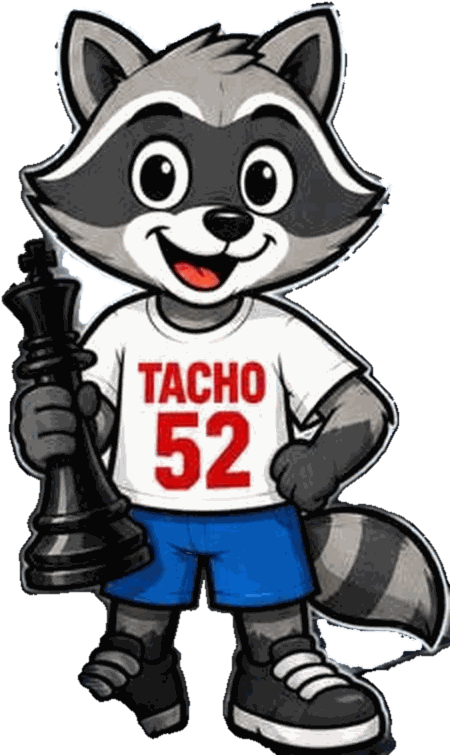
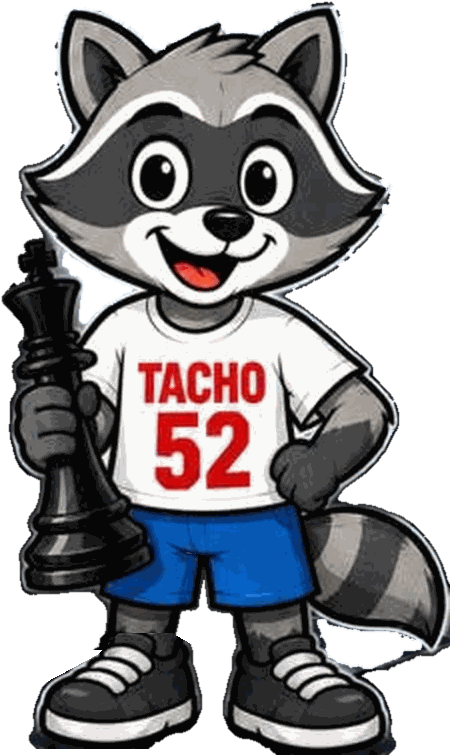
Mis mesas: sin «XXI Campeonato» en los torneos de Pareo y con Tacho en Tacho Chess
La píldora del Centroamericano nace escondida y solo sale con su enlace de
chess-results. Un torneo de Pareo de Tacho Chess muestra a Tacho en lugar del
pizote (medido por el alto), y a Tacho se le arregló el zapato izquierdo.
Verificador nuevo: verificar-centroamericano-arbitro-marca.js.

Changed region(s): [[0.0622, 0.8225, 0.4667, 1.0]]

diff --git a/herramientas/verificar-centroamericano-arbitro-marca.js b/herramientas/verificar-centroamericano-arbitro-marca.js
@@ -1,0 +1,91 @@
+/* La portada de «Mis mesas» (centroamericano-arbitro.html) según de quién es el torneo:
+   - con el enlace del Centroamericano (chess-results): la píldora «XXI Campeonato» y el pizote;
+   - con un torneo de Pareo Integral de Tacho Chess: SIN la píldora y con Tacho, su mascota
+     (img/tacho-chess-2/mascota.png), medida por el alto para no estirar la franja;
+   - con otro torneo de Pareo Integral: sin la píldora, y el pizote de siempre;
+   - en los tres, «Todas las mesas» sigue siendo el botón de la mascota.
+   Se mide lo que se ve (checkVisibility y la imagen cargada), no la clase. Deja capturas en
+   la carpeta temporal del sistema.
+
+   Ver «La portada de "Mis mesas" según el torneo» en docs/decisiones/juegos-y-torneos.md.
+
+       node herramientas/verificar-todo.js centroamericano-arbitro-marca      */
+"use strict";
+const os = require("os");
+const path = require("path");
+const { chromium } = require("./lib/playwright-con-sesion");
+const { TOKEN, dobleArbitro } = require("./lib/doble-centroamericano-arbitro");
+
+const BASE = process.env.BASE_URL || "http://localhost:8777";
+let fallos = 0;
+function igual(nombre, hallado, esperado) {
+    const ok = JSON.stringify(hallado) === JSON.stringify(esperado);
+    if (!ok) fallos++;
+    console.log((ok ? "  ✓ " : "  ✗ ") + nombre + (ok ? "" : "\n      esperado: " + JSON.stringify(esperado) + "\n      hallado:  " + JSON.stringify(hallado)));
+}
+
+const ORIGINAL = 'torneo: "Sub-10 Femenino", categoria: "Sub-10", rama: "Femenino"';
+// El doble de siempre; con `pareo`, el torneo viene de Pareo Integral con ese nombre (como lo manda la base: categoría «Abierto», rama «Mixto»).
+const doble = (pareo) => {
+    const d = dobleArbitro();
+    if (!d.includes(ORIGINAL)) throw new Error("El doble del árbitro cambió: no se encontró el torneo.");
+    return pareo ? d.replace(ORIGINAL, 'fuente: "pareo", torneo: ' + JSON.stringify(pareo) + ', categoria: "Abierto", rama: "Mixto"') : d;
+};
+
+async function abrir(browser, d, ancho) {
+    const ctx = await browser.newContext({ serviceWorkers: "block", viewport: { width: ancho, height: 800 } });
+    await ctx.route("**/js/supabase-client.js", (r) => r.fulfill({ contentType: "application/javascript", body: d }));
+    await ctx.route("**/js/vendor/supabase.js", (r) => r.fulfill({ contentType: "application/javascript", body: "" }));
+    await ctx.route(/supabase\.co|sentry|googletagmanager|cloudflareinsights/, (r) => r.abort());
+    const p = await ctx.newPage();
+    const errores = [];
+    p.on("pageerror", (e) => errores.push(e.message));
+    await p.goto(BASE + "/centroamericano-arbitro.html#" + TOKEN, { waitUntil: "load" });
+    await p.waitForFunction(() => !document.getElementById("datos").hidden);
+    await p.waitForFunction(() => { const i = document.getElementById("mascota-evento"); return i.complete && i.naturalWidth > 0; });
+    return { ctx, p, errores };
+}
+
+const portada = (p) => p.evaluate(() => {
+    const i = document.getElementById("mascota-evento"), r = i.getBoundingClientRect();
+    return {
+        pildora: document.querySelector(".cac-pildora").checkVisibility(),
+        mascota: i.getAttribute("src"),
+        seVe: i.checkVisibility() && i.naturalWidth > 0,
+        enBoton: !!i.closest("#ver-todas-mesas"),
+        alto: Math.round(r.height),
+    };
+});
+
+(async () => {
+    const browser = await chromium.launch();
+    try {
+        const casos = [
+            ["el Centroamericano", null, true, "img/centroamericano-2026/mascota-tablero.png"],
+            ["Tacho Chess (Pareo)", "Tacho Chess 2 (1er Ciclo) (Rápido)", false, "img/tacho-chess-2/mascota.png"],
+            ["otro torneo de Pareo", "Abierto de Pérez Zeledón", false, "img/centroamericano-2026/mascota-tablero.png"],
+        ];
+        for (const [nombre, pareo, pildora, mascota] of casos) {
+            console.log("\n" + nombre + ":");
+            const { ctx, p, errores } = await abrir(browser, doble(pareo), 1280);
+            const v = await portada(p);
+            igual("la píldora «XXI Campeonato» " + (pildora ? "se ve" : "no se ve"), v.pildora, pildora);
+            igual("la mascota es " + mascota + ", se ve y es el botón de «Todas las mesas»", [v.mascota, v.seVe, v.enBoton], [mascota, true, true]);
+            if (pareo && /tacho/i.test(pareo)) igual("Tacho, de pie, no estira la franja (170 px de alto o menos)", v.alto > 0 && v.alto <= 170, true);
+            igual("sin errores de la página", errores, []);
+            await p.screenshot({ path: path.join(os.tmpdir(), "arbitro-marca-" + (pareo ? (/tacho/i.test(pareo) ? "tacho" : "pareo") : "centroamericano") + ".png"), clip: { x: 0, y: 0, width: 1280, height: 460 } });
+            await ctx.close();
+        }
+        // En el celular, Tacho también cabe en la franja.
+        const { ctx, p } = await abrir(browser, doble("Tacho Chess 2 (2do Ciclo) (Rápido)"), 390);
+        const v = await portada(p);
+        igual("a 390 px, sin píldora y con Tacho de 110 px de alto o menos, sin desplazar a lo ancho",
+            [v.pildora, v.mascota, v.alto <= 110, await p.evaluate(() => document.documentElement.scrollWidth <= innerWidth)], [false, "img/tacho-chess-2/mascota.png", true, true]);
+        await p.screenshot({ path: path.join(os.tmpdir(), "arbitro-marca-tacho-celular.png"), clip: { x: 0, y: 0, width: 390, height: 420 } });
+        await ctx.close();
+    } finally { await browser.close(); }
+    console.log(fallos ? `\n✗ ${fallos} comprobación(es) fallaron.` : "\n✓ Todo bien.");
+    process.exit(fallos ? 1 : 0);
+})().catch((e) => { console.error(e); process.exit(1); });
+
+/*! rev bfb5bbb0d2d82f9f */

diff --git a/centroamericano-arbitro.html b/centroamericano-arbitro.html
@@ -35,20 +35,22 @@
     <!-- La portada es la de las bases (morado, hojas de monstera, pildora roja),
          más baja: en el celular lo que importa son las mesas. La mascota es una de
          las dos imágenes de las bases, sin tocar. Lo que dice cada dato lo pone
-         js/centroamericano-arbitro.js al leer el enlace. -->
+         js/centroamericano-arbitro.js al leer el enlace. La píldora «XXI Campeonato»
+         es del Centroamericano: nace escondida y solo se muestra con su enlace de
+         chess-results; en un torneo de Pareo no va, y uno de Tacho Chess trae su mascota. -->
     <section class="cac-portada cam-portada" aria-labelledby="titulo-pagina">
         <img src="img/centroamericano-2026/hojas.png" alt="" aria-hidden="true" width="470" height="440" class="cac-hojas cac-hojas-ai">
         <img src="img/centroamericano-2026/hojas.png" alt="" aria-hidden="true" width="470" height="440" class="cac-hojas cac-hojas-bd">
         <div class="relative max-w-5xl mx-auto px-4 sm:px-6 lg:px-8 pt-6 pb-6 md:pt-8 md:pb-8">
             <div class="cam-cabeza-fila">
                 <div class="min-w-0">
-                    <p><span class="cac-pildora text-sm md:text-base">XXI Campeonato</span></p>
+                    <p id="pildora-evento" hidden><span class="cac-pildora text-sm md:text-base">XXI Campeonato</span></p>
                     <h1 id="titulo-pagina" class="cac-titulo text-2xl sm:text-3xl md:text-4xl mt-3">Mis mesas<span id="titulo-torneo" class="block text-lg sm:text-xl md:text-2xl mt-1"></span></h1>
                 </div>
                 <div class="cam-logo-centro" role="img" aria-label="Ajedrez Integral"><img src="img/logo-marca.png" width="155" height="96" alt=""><span aria-hidden="true">Ajedrez <span>Integral</span></span></div>
                 <!-- El pizote es un botón: abre los emparejamientos de TODAS las categorías, para decirle a un atleta dónde sentarse. -->
                 <button type="button" id="ver-todas-mesas" class="cam-mascota-boton shrink-0" aria-haspopup="dialog" aria-label="Buscar dónde juega un atleta, en todas las categorías">
-                    <img src="img/centroamericano-2026/mascota-tablero.png" width="266" height="231" alt="" aria-hidden="true" class="cam-mascota">
+                    <img id="mascota-evento" src="img/centroamericano-2026/mascota-tablero.png" width="266" height="231" alt="" aria-hidden="true" class="cam-mascota">
                     <span class="cam-mascota-pista" aria-hidden="true">Todas las mesas</span>
                 </button>
             </div>

diff --git a/js/centroamericano-arbitro.js b/js/centroamericano-arbitro.js
@@ -1672,7 +1672,24 @@
         } finally { boton.disabled = false; }
     }
 
+    // La píldora «XXI Campeonato» y el pizote son del Centroamericano (su enlace es de chess-results). En un torneo de
+    // Pareo Integral la píldora no va, y si el torneo tiene mascota propia (Tacho Chess: Tacho), esa reemplaza al pizote.
+    const PIZOTE = { src: "img/centroamericano-2026/mascota-tablero.png", w: 266, h: 231, alta: false };
+    const MASCOTAS = [{ re: /tacho\s*chess/i, src: "img/tacho-chess-2/mascota.png", w: 450, h: 755, alta: true }];
+    function pintarMarca() {
+        const pareo = esPareo();
+        $("pildora-evento").hidden = pareo;
+        const m = (pareo && MASCOTAS.find((x) => x.re.test(estado.torneo || ""))) || PIZOTE;
+        const img = $("mascota-evento");
+        if (img.getAttribute("src") === m.src) return;
+        img.src = m.src;
+        img.width = m.w;
+        img.height = m.h;
+        img.classList.toggle("cam-mascota-alta", m.alta);
+    }
+
     function pintarCabecera() {
+        pintarMarca();
         const r = rapido();
         $("titulo-torneo").textContent = (estado.categoria ? estado.categoria + " " + estado.rama : estado.torneo) + (r && estado.categoria ? (r === "blitz" ? " · Blitz" : " · Rápido") : "");
         // Modo rápido: sin control de tiempos (no se anotan en el Rápido ni en el Blitz) y la regla con sus minutos.

diff --git a/css/centroamericano-mesas.css b/css/centroamericano-mesas.css
@@ -77,6 +77,8 @@ body:has(#control-tiempos:not([hidden])) .cam-fab { right: auto; left: 1rem; }
   height: auto;
   filter: drop-shadow(0 4px 6px rgb(0 0 0 / 0.25));
 }
+/* Una mascota de pie (Tacho, de Tacho Chess: 450 × 755) se mide por el alto, para no estirar la franja. */
+.cam-mascota.cam-mascota-alta { width: auto; height: clamp(110px, 20vw, 170px); }
 
 /* (El nombre va a 1.25rem en negrita, texto grande: el dorado da 4,1:1 contra el morado más claro de la franja, y pide 3:1.)
  * La fila de la franja: el título a la izquierda, el logo de Ajedrez Integral en el medio y la mascota a la derecha.

diff --git a/docs/decisiones/juegos-y-torneos.md b/docs/decisiones/juegos-y-torneos.md
@@ -17327,3 +17327,26 @@ Lo prueba `verificar-mesa-pareo-fuente.js` (sin navegador: `fuente-pareo.ts` con
 el bye, la ronda 0, las tablas iguales a las del navegador, la migración, que con Pareo no se llame a
 `guardarYComprobar`, el virtual solo desde la cola y que la página no escriba en el localStorage de Pareo). Roto a
 propósito el paso de mesa física a índice o el virtual por el canal, salta.
+
+### La portada de "Mis mesas" según el torneo
+
+La página del árbitro de mesa (`centroamericano-arbitro.html`) nació para el
+Centroamericano y su portada traía dos cosas de ese evento: la píldora roja «XXI
+Campeonato» y el pizote de las bases. Desde que la mesa del árbitro también sirve
+torneos de Pareo Integral, eso salía en cualquier torneo (el dueño lo vio en un
+torneo de Tacho Chess y pidió quitarlo). Ahora:
+
+- La píldora **nace escondida** en el HTML y `pintarMarca()` la muestra solo con
+  el enlace del Centroamericano (fuente chess-results); con `fuente: "pareo"` no
+  va. Nace escondida para que no aparezca un instante mientras carga un torneo
+  de Pareo.
+- La mascota sigue siendo el botón de «Todas las mesas». Un torneo de Pareo cuyo
+  nombre coincide con una entrada de `MASCOTAS` (hoy, `/tacho\s*chess/i` → Tacho,
+  `img/tacho-chess-2/mascota.png`) trae su mascota; cualquier otro, el pizote.
+  Tacho es de pie (450 × 755) y se mide por el alto (`.cam-mascota-alta`), para
+  no estirar la franja.
+- La imagen de Tacho tenía el zapato izquierdo deformado (sin punta, salido así
+  del afiche): se rehízo con el zapato derecho en espejo, a pedido del dueño.
+
+Lo comprueba `verificar-centroamericano-arbitro-marca.js` (los tres casos y el
+celular, con capturas).
